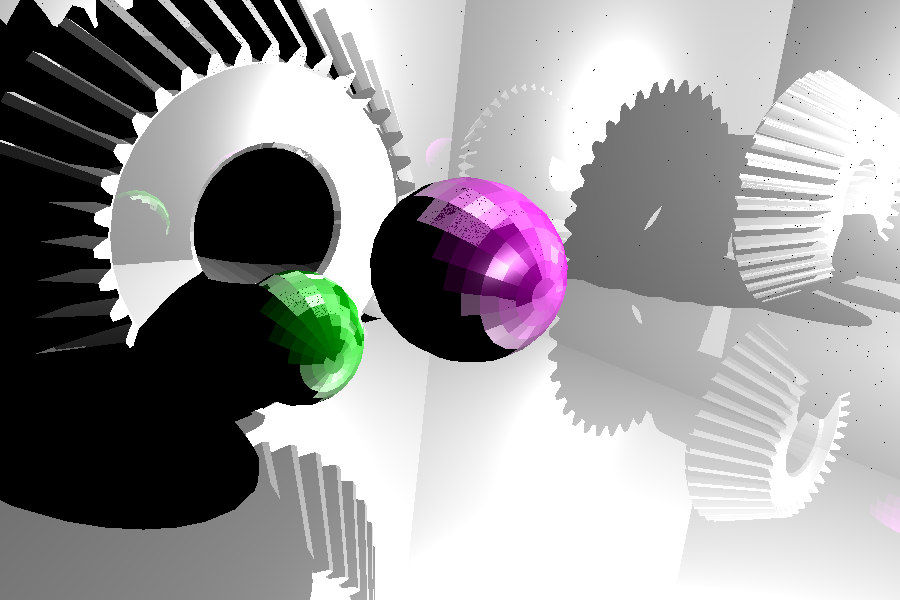
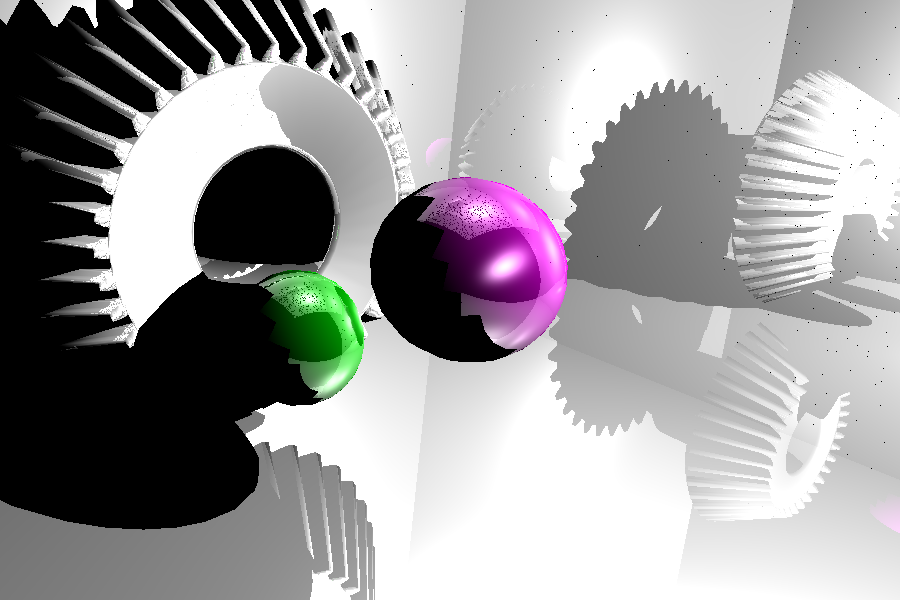
Interpolation

diff --git a/tools/raytracing.py b/tools/raytracing.py
@@ -11,6 +11,7 @@ from collections import namedtuple
 SimpleObj = namedtuple(
     "SimpleObj",
     [
+        "polydata",
         "normals",
         "obbtree",
         "ambient",
@@ -49,9 +50,9 @@ def sphere_intersect(obj, ray_origin, ray_direction):
         cellIdsInter.append(cellIds.GetId(idx))
 
     if iD != 0:
-        return glm.length(pointsInter[0] - p1), cellIdsInter[0]
+        return glm.length(pointsInter[0] - p1), cellIdsInter[0], pointsInter[0]
     else:
-        return None, None
+        return None, None, None
 
 
 def nearest_intersected_object(objects, ray_origin, ray_direction):
@@ -59,36 +60,44 @@ def nearest_intersected_object(objects, ray_origin, ray_direction):
     nearest_object = None
     min_distance = inf
     subId = -1
-    for index, (distance, iD) in enumerate(distances):
+    target = []
+    for index, (distance, iD, x) in enumerate(distances):
         if distance and distance < min_distance:
             min_distance = distance
             nearest_object = objects[index]
             subId = iD
-    return nearest_object, min_distance, subId
+            target = x
+    return nearest_object, min_distance, subId, target
 
 
 def get_normals(obj):
     if isinstance(obj.obj, vtk.vtkPolyData):
-        return obj.obj.GetCellData().GetNormals()
+        polydata = obj.obj
+        normals = obj.obj.GetPointData().GetNormals()
+        return polydata, normals
     else:
+        polydata = obj.obj.GetOutput()
         vtknormal = vtk.vtkPolyDataNormals()
         vtknormal.SetInputConnection(obj.obj.GetOutputPort())
-        vtknormal.ComputePointNormalsOff()
+        vtknormal.ComputePointNormalsOn()
         vtknormal.ComputeCellNormalsOn()
         vtknormal.SplittingOff()
         vtknormal.FlipNormalsOff()
         vtknormal.AutoOrientNormalsOn()
         vtknormal.Update()
-        return vtknormal.GetOutput().GetCellData().GetNormals()
+        normals = vtknormal.GetOutput().GetPointData().GetNormals()
+        return polydata, normals
 
 
 class Data:
     def __init__(self, objects, actors, light, camera):
         self.objects = []
         for obj, actor in zip(objects, actors):
+            polydata, normals = get_normals(obj)
             self.objects.append(
                 SimpleObj(
-                    get_normals(obj),
+                    polydata,
+                    normals,
                     obj.obbtree,
                     obj.color * obj.ambient,
                     obj.color * obj.diffuse,
@@ -133,6 +142,18 @@ def change_reference(ref):
     return rotation, translation
 
 
+def interpolation(points, normals, target):
+    A, B, C = map(glm.vec3, points)
+    normals = list(map(glm.vec3, normals))
+    target = glm.vec3(target)
+    AC = A - C
+    BC = B - C
+    TC = target - C
+    u, v, _ = glm.inverse(glm.mat3(AC, BC, glm.cross(AC, BC))) * TC
+    w = 1 - u - v
+    return u * normals[0] + v * normals[1] + w * normals[2]
+
+
 def generate_image(objects, actors, light, camera, max_depth=3, width=300, height=200):
     # Parameters
     data = Data(objects, actors, light, camera)
@@ -159,18 +180,27 @@ def generate_image(objects, actors, light, camera, max_depth=3, width=300, heigh
 
                 for k in range(max_depth):
                     # check for intersections
-                    nearest_object, min_distance, subId = nearest_intersected_object(
+                    nearest_object, min_distance, subId, target = nearest_intersected_object(
                         data.objects, origin, direction
                     )
                     if nearest_object is None:
                         break
 
                     intersection = origin + min_distance * direction
-                    normal_to_surface = glm.normalize(nearest_object.normals.GetTuple(subId))
+                    points = [
+                        nearest_object.polydata.GetCell(subId).GetPoints().GetPoint(i)
+                        for i in range(3)
+                    ]
+                    ids = [
+                        nearest_object.polydata.GetCell(subId).GetPointIds().GetId(i)
+                        for i in range(3)
+                    ]
+                    normals = [nearest_object.normals.GetTuple(id_) for id_ in ids]
+                    normal_to_surface = glm.normalize(interpolation(points, normals, target))
                     shifted_point = intersection + 1e-5 * normal_to_surface
                     intersection_to_light = glm.normalize(data.light.position - shifted_point)
 
-                    _, min_distance, _ = nearest_intersected_object(
+                    _, min_distance, _, _ = nearest_intersected_object(
                         data.objects, shifted_point, intersection_to_light
                     )
                     intersection_to_light_distance = glm.length(

diff --git a/new_main.py b/new_main.py
@@ -108,25 +108,17 @@ class Window(QWidget):
             generate_plane,
             zip(repeat(100), repeat(-20), self.PLANE_NORMALS, self.PLANE_TRANSLATIONS),
         )
-        # plane, obbtree = generate_plane(100, -20)
-        # plane2, obbtree2 = generate_plane(100, -30, glm.vec3(0, 0, 1), glm.vec3(0, -20, -30))
 
         obbtrees = [obbtree_bgear] + [make_obbtree(obj) for obj in (s2, s3)]
-        # obbtrees = (
-        #     [obbtree_bgear] + [make_obbtree(obj) for obj in (s2, s3)] + [obbtree, obbtree2]
-        # )
         obj1 = Object(bgear, obbtrees[0], vec3(1, 1, 1), 0.1, 0.7, 1, 100, 0.5, vec3(0, 0, 0))
         obj2 = Object(s2, obbtrees[1], vec3(1, 0, 1), 0.1, 0.7, 1, 100, 0.5, vec3(5, 0, -4))
         obj3 = Object(s3, obbtrees[2], vec3(0, 1, 0), 0.1, 0.6, 1, 100, 0.5, vec3(-6, -2, -3))
-        # obj4 = Object(plane, obbtrees[3], vec3(1, 1, 1), 0.1, 0.6, 1, 100, 0.5, vec3(0, 0, 0))
-        # obj5 = Object(plane2, obbtrees[4], vec3(1, 1, 1), 0.1, 0.6, 1, 100, 0.5, vec3(0, 0, 0))
         objs = [
             Object(plane, obbtree, vec3(1, 1, 1), 0.1, 0.6, 1, 100, 0.5, vec3(0, 0, 0))
             for plane, obbtree in planes_obbtrees
         ]
         self.objects = [obj1, obj2, obj3] + objs
 
-        # self.objects = [obj1, obj2, obj3, obj4, obj5]
         self.labels = ["Bevel gear", "Violet sphere", "Green sphere"] + ["White plane"] * len(
             objs
         )

diff --git a/tools/generic_obj.py b/tools/generic_obj.py
@@ -80,9 +80,10 @@ def generate_plane(width, z, normal=glm.vec3(0, 1, 0), translation=glm.vec3(0, 0
     vtknormals.SetNumberOfTuples(polygonPolyData.GetNumberOfPoints())
 
     for i in range(p):
-        vtknormals.SetTuple(0, normal)
+        vtknormals.SetTuple(i, normal)
 
-    polygonPolyData.GetCellData().SetNormals(vtknormals)
+    # polygonPolyData.GetCellData().SetNormals(vtknormals)
+    polygonPolyData.GetPointData().SetNormals(vtknormals)
 
     obbtree = vtk.vtkOBBTree()
     obbtree.SetDataSet(polygonPolyData)
